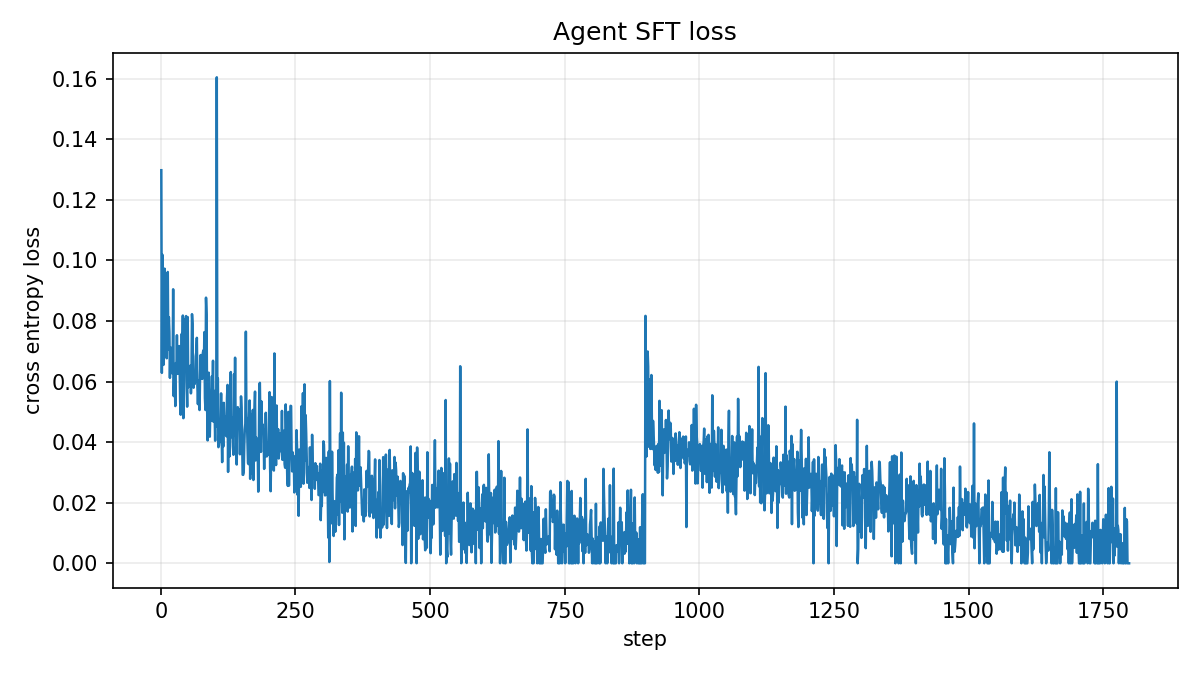
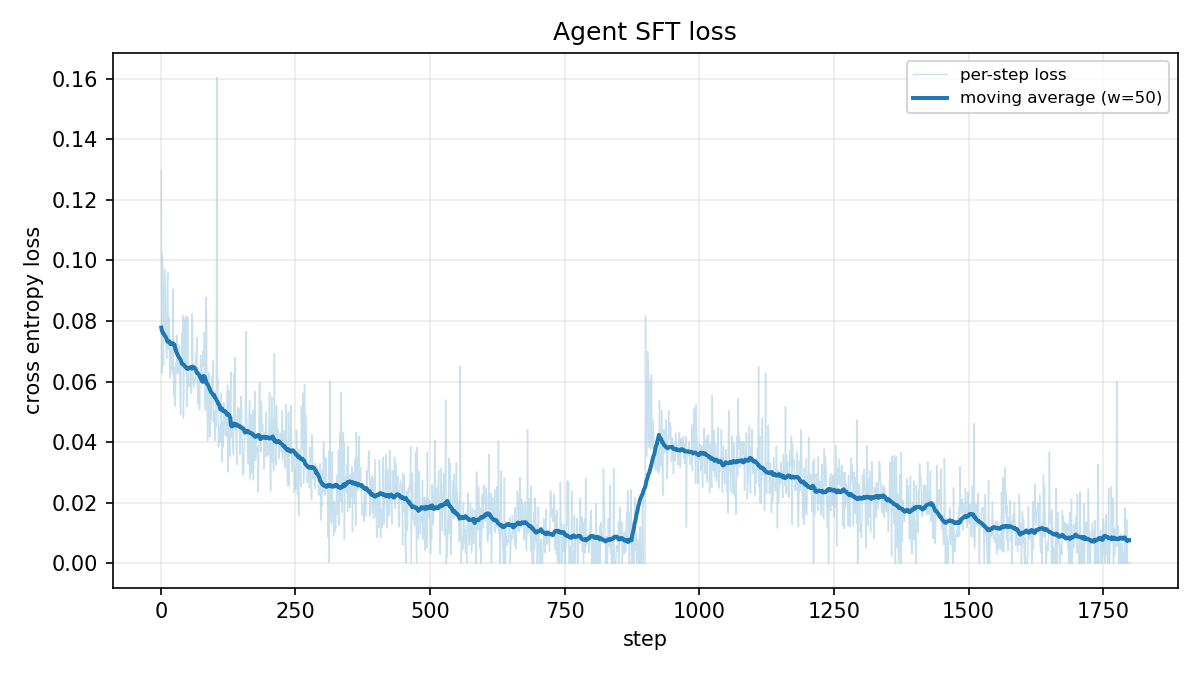
fix(plot): 平滑 SFT loss 曲线

Changed region(s): [[0.1233, 0.1867, 0.9558, 0.84], [0.74, 0.0933, 0.9867, 0.1867]]

diff --git a/scripts/sft_agent.py b/scripts/sft_agent.py
@@ -133,7 +133,27 @@ def _pad_batch(chunk, device):
     return ids, p, lens
 
 
-def plot_loss(history: list[dict], out_dir: str) -> None:
+def moving_average(values: list[float], window: int) -> list[float]:
+    """Centered moving average for a noisy per-step training loss."""
+    window = max(1, int(window))
+    n = len(values)
+    if window == 1 or n < 2:
+        return list(values)
+    half = window // 2
+    prefix = [0.0]
+    for value in values:
+        prefix.append(prefix[-1] + value)
+    out = []
+    for i in range(n):
+        lo = max(0, i - half)
+        hi = min(n, i + half + 1)
+        out.append((prefix[hi] - prefix[lo]) / (hi - lo))
+    return out
+
+
+def plot_loss(history: list[dict], out_dir: str, *,
+              smooth_window: int = 50,
+              filename: str = "sft_loss.png") -> None:
     import matplotlib
     matplotlib.use("Agg")
     import matplotlib.pyplot as plt
@@ -142,14 +162,20 @@ def plot_loss(history: list[dict], out_dir: str) -> None:
     out.mkdir(parents=True, exist_ok=True)
     steps = [x["step"] for x in history]
     losses = [x["loss"] for x in history]
+    smooth = moving_average(losses, smooth_window)
     fig, ax = plt.subplots(figsize=(8, 4.5))
-    ax.plot(steps, losses, linewidth=1.2)
+    if smooth_window > 1:
+        ax.plot(steps, losses, color="#9ecae1", linewidth=0.7,
+                alpha=0.55, label="per-step loss")
+    ax.plot(steps, smooth, color="#1f77b4", linewidth=1.9,
+            label=f"moving average (w={smooth_window})")
     ax.set_xlabel("step")
     ax.set_ylabel("cross entropy loss")
     ax.set_title("Agent SFT loss")
     ax.grid(alpha=0.25)
+    ax.legend(fontsize=8)
     fig.tight_layout()
-    fig.savefig(out / "sft_loss.png", dpi=150)
+    fig.savefig(out / filename, dpi=150)
     plt.close(fig)
 
 
@@ -235,6 +261,8 @@ def main() -> int:
     ap.add_argument("--init-adapter", default=None)
     ap.add_argument("--plot-dir", default=None,
                     help="可选：保存 sft_loss.png 的目录")
+    ap.add_argument("--smooth-window", type=int, default=50,
+                    help="loss 曲线移动平均窗口")
     ap.add_argument("--save-dir", default="/tmp/opencode/sft_agent")
     ap.add_argument("--json", default="/tmp/opencode/sft_agent.json")
     args = ap.parse_args()
@@ -295,7 +323,8 @@ def main() -> int:
             lr=args.lr, seed=args.seed, init_state=init_state,
         )
         if args.plot_dir:
-            plot_loss(loss_history, args.plot_dir)
+            plot_loss(loss_history, args.plot_dir,
+                      smooth_window=args.smooth_window)
             print(f"loss plot → {Path(args.plot_dir) / 'sft_loss.png'}")
 
         save_dir = Path(args.save_dir)
@@ -314,6 +343,7 @@ def main() -> int:
                 "history_window": args.history_window,
                 "max_seq_len": args.max_seq_len,
                 "recovery_per_task": args.recovery_per_task,
+                "smooth_window": args.smooth_window,
                 "seed": args.seed,
             },
         }, save_path)

diff --git a/scripts/plot_metrics.py b/scripts/plot_metrics.py
@@ -22,6 +22,23 @@ import matplotlib.pyplot as plt
 SFT_RE = re.compile(r"epoch=(\d+)\s+step=(\d+)\s+loss=([0-9.eE+-]+)")
 
 
+def moving_average(values: list[float], window: int) -> list[float]:
+    window = max(1, int(window))
+    n = len(values)
+    if window == 1 or n < 2:
+        return list(values)
+    half = window // 2
+    prefix = [0.0]
+    for value in values:
+        prefix.append(prefix[-1] + value)
+    out = []
+    for i in range(n):
+        lo = max(0, i - half)
+        hi = min(n, i + half + 1)
+        out.append((prefix[hi] - prefix[lo]) / (hi - lo))
+    return out
+
+
 def parse_sft(path: Path) -> tuple[list[int], list[float], str]:
     steps, losses = [], []
     for line in path.read_text(encoding="utf-8", errors="ignore").splitlines():
@@ -32,7 +49,8 @@ def parse_sft(path: Path) -> tuple[list[int], list[float], str]:
     return steps, losses, path.stem
 
 
-def plot_sft(logs: list[Path], out: Path) -> None:
+def plot_sft(logs: list[Path], out: Path, *,
+             smooth_window: int = 50) -> None:
     if not logs:
         return
     fig, ax = plt.subplots(figsize=(8, 4.5))
@@ -40,7 +58,12 @@ def plot_sft(logs: list[Path], out: Path) -> None:
         steps, losses, name = parse_sft(path)
         if not steps:
             continue
-        ax.plot(steps, losses, linewidth=1.4, label=name)
+        if smooth_window > 1:
+            ax.plot(steps, losses, linewidth=0.7, alpha=0.25,
+                    label=f"{name} (raw)")
+        smooth = moving_average(losses, smooth_window)
+        ax.plot(steps, smooth, linewidth=1.8,
+                label=f"{name} (MA {smooth_window})")
     ax.set_xlabel("step")
     ax.set_ylabel("cross entropy loss")
     ax.set_title("SFT loss")
@@ -103,11 +126,14 @@ def main() -> int:
                     help="可重复；SFT 训练日志")
     ap.add_argument("--grpo-json", default=None,
                     help="train_grpo 产出的 JSON")
+    ap.add_argument("--smooth-window", type=int, default=50,
+                    help="SFT loss 移动平均窗口")
     ap.add_argument("--out", default="reports/curves")
     args = ap.parse_args()
     out = Path(args.out)
     out.mkdir(parents=True, exist_ok=True)
-    plot_sft([Path(x) for x in args.sft_log], out)
+    plot_sft([Path(x) for x in args.sft_log], out,
+             smooth_window=args.smooth_window)
     if args.grpo_json:
         plot_grpo(Path(args.grpo_json), out)
     print(f"curves -> {out}")

diff --git a/reports/SFT_agent_L0.md b/reports/SFT_agent_L0.md
@@ -78,12 +78,12 @@ seed:           7
 
 训练总 step 数：1798。
 
-Loss 曲线：
+Loss 曲线（浅色为 per-step，粗线为 50-step centered moving average）：
 
 ![L0 Agent SFT loss](curves/sft_agent_l0_600_loss.png)
 
-曲线从约 0.08–0.10 持续下降到接近 0；两个 epoch 的切换处有一个短暂
-的 bucket 重排峰，但整体趋势稳定。
+平滑曲线从约 0.08–0.10 持续下降到接近 0；两个 epoch 的切换处有一个
+短暂的 bucket 重排峰，但整体趋势稳定。
 
 ---
 

diff --git a/reports/SFT_agent_L1.md b/reports/SFT_agent_L1.md
@@ -120,7 +120,7 @@ recovery/task:     2；recovery=8 实验为 8
 seed:              7
 ```
 
-Loss 曲线：
+Loss 曲线（浅色为 per-step，粗线为 50-step centered moving average）：
 
 无 recovery：
 
